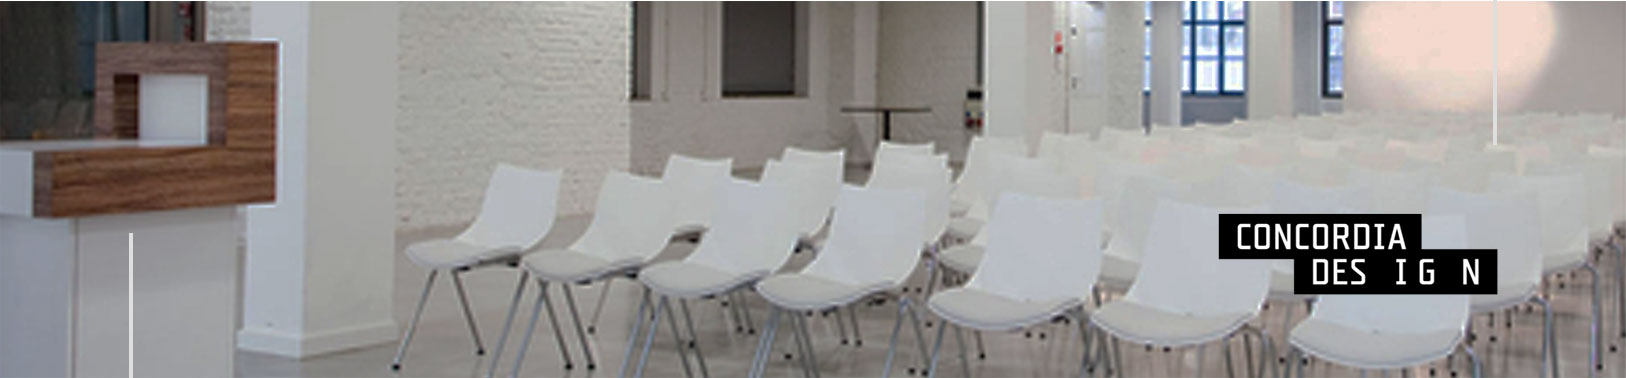
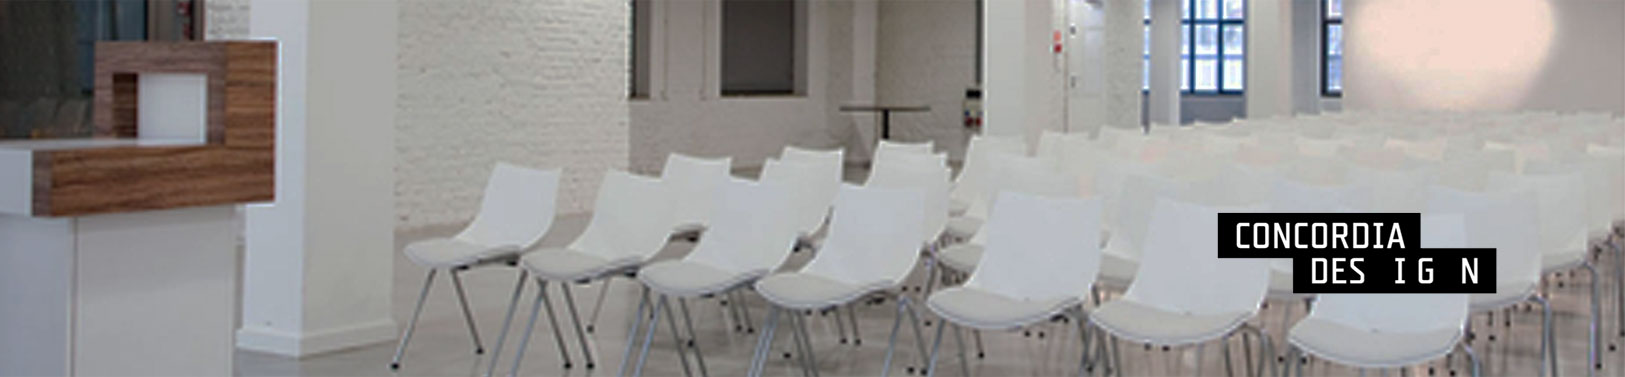
changes

diff --git a/css/main.css b/css/main.css
@@ -1044,7 +1044,7 @@ transform-origin:50% 50%;
     padding-top: 0;
 }
 .program #middlePart{
-    left: 57%;
+    left: 60%;
     top: 48%;
 }
 .program-wrap{
@@ -1137,14 +1137,14 @@ transform-origin:50% 50%;
 .concordia-image:before{
     border-bottom: 4px solid #dedede;
     border-left: 4px solid #dedede;
-    bottom: -137px;
-    left: 130px;
+    bottom: -141px;
+    left: 127px;
 }
 .concordia-image:after{
     border-top: 4px solid #dedede;
     border-right: 4px solid #dedede;
-    top: -137px;
-    right: 130px;
+    top: -143px;
+    right: 126px;
 }
 .concordia-image img{
     width: 100%;
